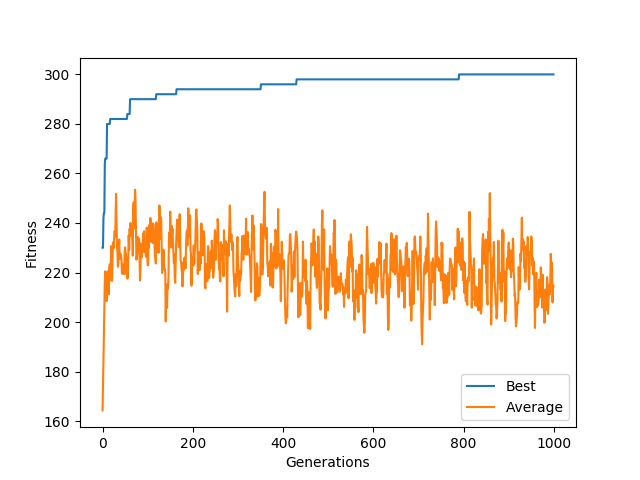
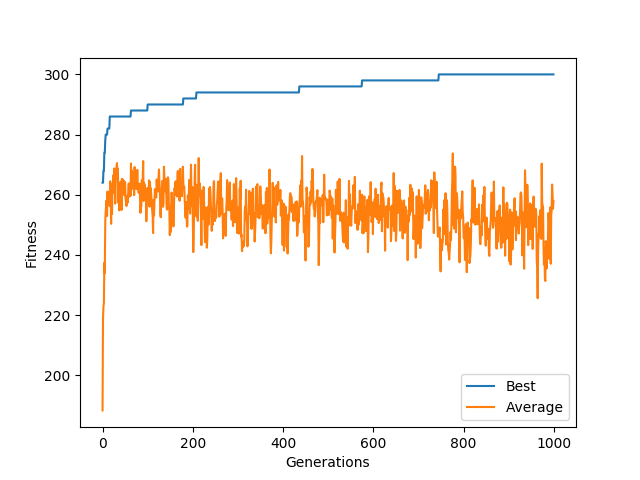
Crowding Factor DONE

diff --git a/OCEV/main.py b/OCEV/main.py
@@ -107,9 +107,6 @@ if  __name__ =='__main__':
           newGen.append(child1)
           newGen.append(child2)
 
-    if var.crowd:
-      place = placeholder
-
     for i in range(var.pop_size):
       for j in range(var.d_size):
         if mtt.mut():
@@ -132,6 +129,30 @@ if  __name__ =='__main__':
         random.shuffle(newPopu)
         newPopu[i] = gapMat[i]
 
+    if var.crowd:
+      if var.problem == 1:
+        objective = fit.bitsAlternados(newPopu,var.pop_size,var.d_size)
+      if var.problem == 2:
+        objective = fit.paresAlternados(newPopu,var.pop_size,var.d_size)
+      if var.problem == 3:
+        objective = fit.sphere(newPopu, var.pop_size, var.d_size)
+      if var.problem == 4:
+        objective = fit.radio(newPopu, var.pop_size, var.d_size)
+      if var.problem == 5:
+        objective = fit.pattern(newPopu, var.pop_size, var.d_size)
+      if var.problem == 6:
+        objective = fit.nQueens(newPopu, var.pop_size, var.d_size)
+      if var.problem == 7:
+        objective = fit.f3(newPopu, var.pop_size, var.d_size)    
+      if var.problem == 8:
+        objective = fit.f3s(newPopu, var.pop_size, var.d_size)
+      if var.problem == 9:
+        objective = fit.deceptiveN(newPopu, var.pop_size, var.d_size)
+      dm.crowding(objective, newPopu, var.pop_size,var.d_size)
+
+    if var.crowd:
+      nowPopu = newPop(newPopu,var.pop_size,var.d_size)
+      
     if var.elitism:
       randIndex = random.randint(0,(var.d_size-1))
       newPopu[randIndex] = elected

diff --git a/OCEV/diversityManagement.py b/OCEV/diversityManagement.py
@@ -2,6 +2,8 @@ import random
 import math as mt
 import numpy as np
 import variaveis as var
+import copy as cp
+import sys
 
 def getGap(matriz, percent,pop,d):
   x = []
@@ -28,7 +30,33 @@ def sharing(matriz,pop,d):
     cru = matriz[i][d]
     matriz[i][d] = cru/som
 
-def crowding():
+def crowding(matriz, newP, pop,d):
   select = 5
-  newM = []
-  pass
+  mini = 99999
+  maxi = -1
+  for i in range(pop):
+    if matriz[i][d] < mini:
+      mini = matriz[i][d]
+    if matriz[i][d] > maxi:
+      maxi = matriz[i][d]
+  for i in range(len(newP)):
+    dist = []
+    for j in range(select):
+      val = 0.0
+      pos = random.randint(0,len(matriz)-1)
+      element = []
+      val += (float(mt.fabs(newP[i][d] - matriz[pos][d]/float((maxi-mini)*d))))
+      element.append(val)
+      element.append(select)
+      dist.append(element)
+    locus = distLocus(cp.deepcopy(dist))
+    matriz[locus] = cp.deepcopy(newP[i])
+
+def distLocus(matriz):
+  mini = sys.maxsize
+  count = 0
+  for i in range(len(matriz)):
+    if (float(mini) > float(matriz[i][0])):
+      mini = matriz[i][0]
+      count = matriz[i][1]
+  return count

diff --git a/OCEV/variaveis.py b/OCEV/variaveis.py
@@ -2,7 +2,7 @@ import random
 import math as mt
 
 generations = 1000
-k = 2
+k = 5
 pop_size = 50
 d_size = 30
 bounds = [-50,50]
@@ -20,8 +20,8 @@ selection = 2
 genGap = False
 
 # Fitness Sharing
-share = True
-# share = False
+# share = True
+share = False
 
 # Crowding Factor
 # crowd = True
